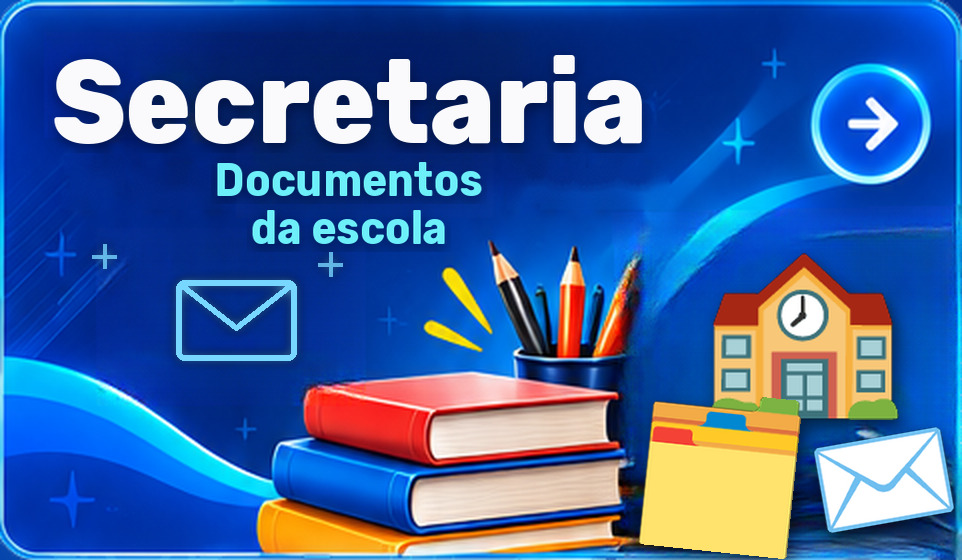
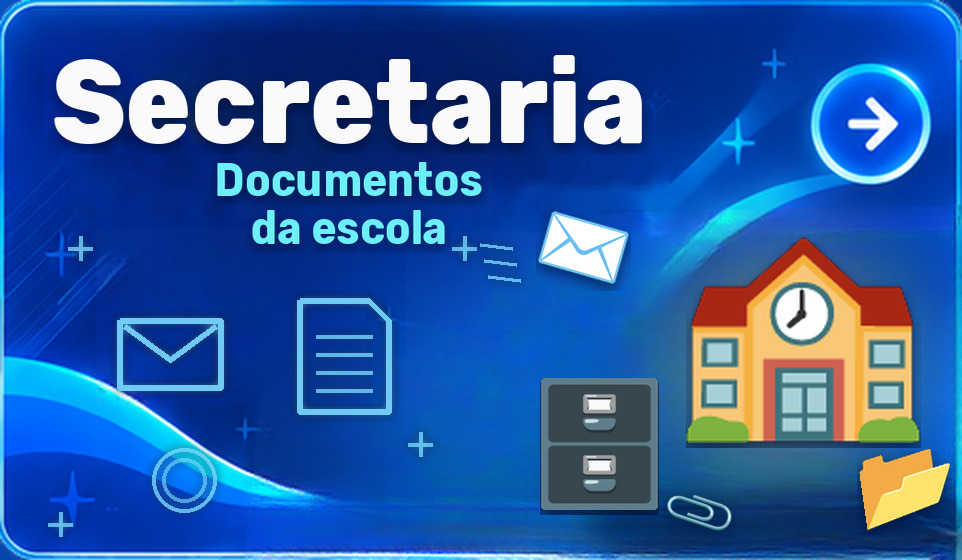
Capas da escola com cena própria cada uma (AEE, Secretaria, Coordenação, Avisos, Calendário, Horário)
Claude-Session: https://claude.ai/code/session_01EnA51XFdjbCxLqLpJXARBK

diff --git a/index.html b/index.html
@@ -17,4 +17,4 @@
 .math-meta{grid-template-columns:minmax(0,1fr) minmax(0,1fr)!important}
 @media(max-width:600px){.meta,.math-meta{grid-template-columns:minmax(0,1fr)!important}}
 @media print{.meta,.math-meta{grid-template-columns:1fr 1fr!important}}
-</style><style>.sei-preview-notice{max-width:850px;margin:15px auto;padding:12px 16px;border-radius:8px;background:#fff3d5;color:#604000;font-weight:600}.original-page{width:100%;height:auto;display:block}@media print{#print-area .original-physics{width:100%;margin:0!important}#print-area .original-page{width:100%;height:auto;max-height:277mm;object-fit:contain}@page{size:A4;margin:10mm}}</style><link rel="stylesheet" href="portal.css?v=52-escola"><link rel="stylesheet" href="impressao.css?v=5-pb"><link rel="manifest" href="manifest.webmanifest"><meta name="theme-color" content="#0b2a5b"><link rel="apple-touch-icon" href="assets/portal/icone-192.png"></head><body><header><h1>SEI | Biblioteca Digital</h1><p>Sistema de Ensino Incentivo · São Miguel do Guamá — PA</p></header><main class="wrap"><div id="crumb" class="crumb"></div><h2 id="title"></h2><div id="content" class="grid"></div></main><section id="offline" class="offline-box" aria-label="Usar sem internet"><div class="ob"><a id="obAulas" href="aulas.html">📁 Minhas aulas</a><button id="obInstalar" hidden>⬇ Instalar aplicativo</button><button id="obBaixar" title="Baixa tudo uma vez (cerca de 500 MB) para usar sem internet">📥 Usar sem internet</button></div><p id="obMsg"></p></section><footer><div class="contatos"><a href="https://wa.me/5591981248323" target="_blank" rel="noopener"><span class="ic wa">✆</span>(91) 9 8124-8323</a><a href="https://www.instagram.com/_sei01/" target="_blank" rel="noopener"><span class="ic ig">◎</span>@_sei01</a><a href="https://www.google.com/maps/search/?api=1&query=Travessa+Padre+S%C3%A1tiro%2C+442%2C+S%C3%A3o+Miguel+do+Guam%C3%A1+PA" target="_blank" rel="noopener"><span class="ic mp">📍</span>Tv. Padre Sátiro, 442 – São Miguel do Guamá/PA</a></div>AQUI SE FAZ EDUCAÇÃO COM QUALIDADE</footer><div id="print-area"></div><script src="biblioteca.js?v=2-espanhol"></script><script src="catalogo.js?v=20-estilo"></script><script src="sei-header-art.js?v=1"></script><script src="sei-standard.js?v=2-convenio"></script><script src="modelo-word.js?v=10-standard"></script><script src="assets/vendor/jszip.min.js"></script><script src="avaliacao.js?v=2"></script><script src="ajustar-word.js?v=2-pb"></script><script src="word-pb.js?v=10"></script><script src="impressao.js?v=5-pb"></script><script src="portal.js?v=44-escola"></script><script src="offline.js?v=2"></script><script>(function(){let ev=null;const bi=document.getElementById("obInstalar"),bb=document.getElementById("obBaixar"),m=document.getElementById("obMsg");addEventListener("beforeinstallprompt",e=>{e.preventDefault();ev=e;bi.hidden=false});bi.onclick=async()=>{if(!ev)return;ev.prompt();await ev.userChoice;ev=null;bi.hidden=true};try{const t=localStorage.getItem("sei-offline");if(t)m.textContent="Já baixado para uso offline em "+new Date(+t).toLocaleDateString("pt-BR")+". Clique de novo para atualizar."}catch(e){}bb.onclick=async()=>{if(!window.seiBaixarTudo){m.textContent="Este navegador não permite uso offline.";return}bb.disabled=true;try{if(navigator.storage&&navigator.storage.persist)await navigator.storage.persist()}catch(e){}const r=await seiBaixarTudo((d,t,f)=>{m.textContent="Baixando… "+d+" de "+t+" arquivos ("+Math.round(d/t*100)+"%)"+(f?" · "+f+" falharam":"")});m.textContent=r.falha?"Baixados "+r.ok+" de "+r.total+". "+r.falha+" falharam — clique de novo com internet para completar.":"Pronto! Tudo baixado ("+r.total+" arquivos). Agora funciona sem internet.";bb.disabled=false}})();</script></body></html>
+</style><style>.sei-preview-notice{max-width:850px;margin:15px auto;padding:12px 16px;border-radius:8px;background:#fff3d5;color:#604000;font-weight:600}.original-page{width:100%;height:auto;display:block}@media print{#print-area .original-physics{width:100%;margin:0!important}#print-area .original-page{width:100%;height:auto;max-height:277mm;object-fit:contain}@page{size:A4;margin:10mm}}</style><link rel="stylesheet" href="portal.css?v=52-escola"><link rel="stylesheet" href="impressao.css?v=5-pb"><link rel="manifest" href="manifest.webmanifest"><meta name="theme-color" content="#0b2a5b"><link rel="apple-touch-icon" href="assets/portal/icone-192.png"></head><body><header><h1>SEI | Biblioteca Digital</h1><p>Sistema de Ensino Incentivo · São Miguel do Guamá — PA</p></header><main class="wrap"><div id="crumb" class="crumb"></div><h2 id="title"></h2><div id="content" class="grid"></div></main><section id="offline" class="offline-box" aria-label="Usar sem internet"><div class="ob"><a id="obAulas" href="aulas.html">📁 Minhas aulas</a><button id="obInstalar" hidden>⬇ Instalar aplicativo</button><button id="obBaixar" title="Baixa tudo uma vez (cerca de 500 MB) para usar sem internet">📥 Usar sem internet</button></div><p id="obMsg"></p></section><footer><div class="contatos"><a href="https://wa.me/5591981248323" target="_blank" rel="noopener"><span class="ic wa">✆</span>(91) 9 8124-8323</a><a href="https://www.instagram.com/_sei01/" target="_blank" rel="noopener"><span class="ic ig">◎</span>@_sei01</a><a href="https://www.google.com/maps/search/?api=1&query=Travessa+Padre+S%C3%A1tiro%2C+442%2C+S%C3%A3o+Miguel+do+Guam%C3%A1+PA" target="_blank" rel="noopener"><span class="ic mp">📍</span>Tv. Padre Sátiro, 442 – São Miguel do Guamá/PA</a></div>AQUI SE FAZ EDUCAÇÃO COM QUALIDADE</footer><div id="print-area"></div><script src="biblioteca.js?v=2-espanhol"></script><script src="catalogo.js?v=20-estilo"></script><script src="sei-header-art.js?v=1"></script><script src="sei-standard.js?v=2-convenio"></script><script src="modelo-word.js?v=10-standard"></script><script src="assets/vendor/jszip.min.js"></script><script src="avaliacao.js?v=2"></script><script src="ajustar-word.js?v=2-pb"></script><script src="word-pb.js?v=10"></script><script src="impressao.js?v=5-pb"></script><script src="portal.js?v=45-capas"></script><script src="offline.js?v=2"></script><script>(function(){let ev=null;const bi=document.getElementById("obInstalar"),bb=document.getElementById("obBaixar"),m=document.getElementById("obMsg");addEventListener("beforeinstallprompt",e=>{e.preventDefault();ev=e;bi.hidden=false});bi.onclick=async()=>{if(!ev)return;ev.prompt();await ev.userChoice;ev=null;bi.hidden=true};try{const t=localStorage.getItem("sei-offline");if(t)m.textContent="Já baixado para uso offline em "+new Date(+t).toLocaleDateString("pt-BR")+". Clique de novo para atualizar."}catch(e){}bb.onclick=async()=>{if(!window.seiBaixarTudo){m.textContent="Este navegador não permite uso offline.";return}bb.disabled=true;try{if(navigator.storage&&navigator.storage.persist)await navigator.storage.persist()}catch(e){}const r=await seiBaixarTudo((d,t,f)=>{m.textContent="Baixando… "+d+" de "+t+" arquivos ("+Math.round(d/t*100)+"%)"+(f?" · "+f+" falharam":"")});m.textContent=r.falha?"Baixados "+r.ok+" de "+r.total+". "+r.falha+" falharam — clique de novo com internet para completar.":"Pronto! Tudo baixado ("+r.total+" arquivos). Agora funciona sem internet.";bb.disabled=false}})();</script></body></html>

diff --git a/portal.js b/portal.js
@@ -8,7 +8,7 @@ const labels=['Fundamental I — 1º ao 5º ano','Fundamental II — 6º ao 9º 
 const home=document.createElement('section');home.className='portal-home';home.setAttribute('aria-label','Biblioteca Digital SEI — materiais da escola');
 home.innerHTML='<img class="portal-art" src="'+art+'" alt="Mascote e logomarca SEI. Aqui se faz educação com qualidade. Biblioteca Digital SEI. Materiais da escola."><div class="brand-shimmer" aria-hidden="true"></div><div class="mascot-motion" aria-hidden="true"></div><button class="motion-toggle" aria-pressed="false">Pausar animações</button>';
 labels.forEach((label,i)=>{const b=document.createElement('button');b.className='portal-entry entry-'+i;b.setAttribute('aria-label',label);b.innerHTML='<span class="sr-only">'+label+'</span>';if(i===2||i===3){const label=document.createElement('span');label.className='series-home-label';label.textContent=i===2?'1ª e 2ª série':'3ª série (Convênio)';b.append(label)}b.onclick=()=>go(i,null,null);home.append(b)});
-{const ex=document.createElement('nav');ex.className='home-extra';ex.setAttribute('aria-label','Atendimento e gestão');ex.innerHTML=[['aee.html','capa-aee','AEE — Atendimento Educacional Especializado'],['secretaria.html','capa-secretaria','Secretaria — documentos da escola'],['coordenacao.html','capa-coordenacao','Coordenação pedagógica'],['avisos.html','capa-avisos','Avisos e comunicados'],['calendario.html','capa-calendario','Calendário escolar'],['horarios.html','capa-horario','Horário de aula']].map(c=>'<a class="extra-card" href="'+c[0]+'" style="background-image:url(assets/portal/'+c[1]+'.jpg?v=1)"><span class="sr-only">'+c[2]+'</span></a>').join('');home.append(ex)}
+{const ex=document.createElement('nav');ex.className='home-extra';ex.setAttribute('aria-label','Atendimento e gestão');ex.innerHTML=[['aee.html','capa-aee','AEE — Atendimento Educacional Especializado'],['secretaria.html','capa-secretaria','Secretaria — documentos da escola'],['coordenacao.html','capa-coordenacao','Coordenação pedagógica'],['avisos.html','capa-avisos','Avisos e comunicados'],['calendario.html','capa-calendario','Calendário escolar'],['horarios.html','capa-horario','Horário de aula']].map(c=>'<a class="extra-card" href="'+c[0]+'" style="background-image:url(assets/portal/'+c[1]+'.jpg?v=2)"><span class="sr-only">'+c[2]+'</span></a>').join('');home.append(ex)}
 header.after(home);
 const wrap=document.querySelector('main');
 const back=document.createElement('button');back.className='back-button';back.textContent='← Voltar';back.onclick=()=>s!==null?go(g,y,null):y!==null?go(g,null,null):go(null,null,null);crumb.before(back);
